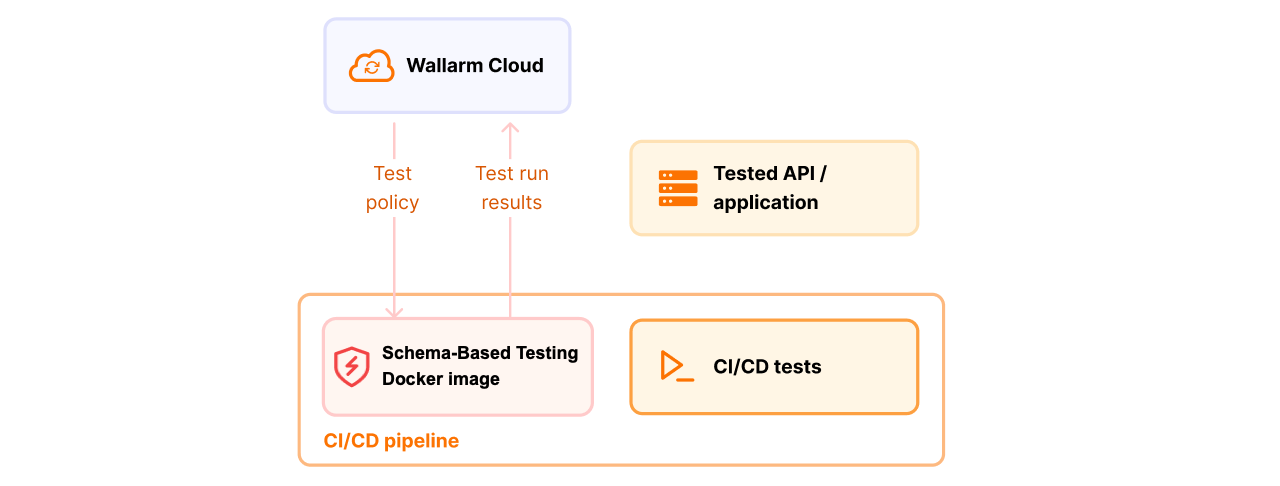
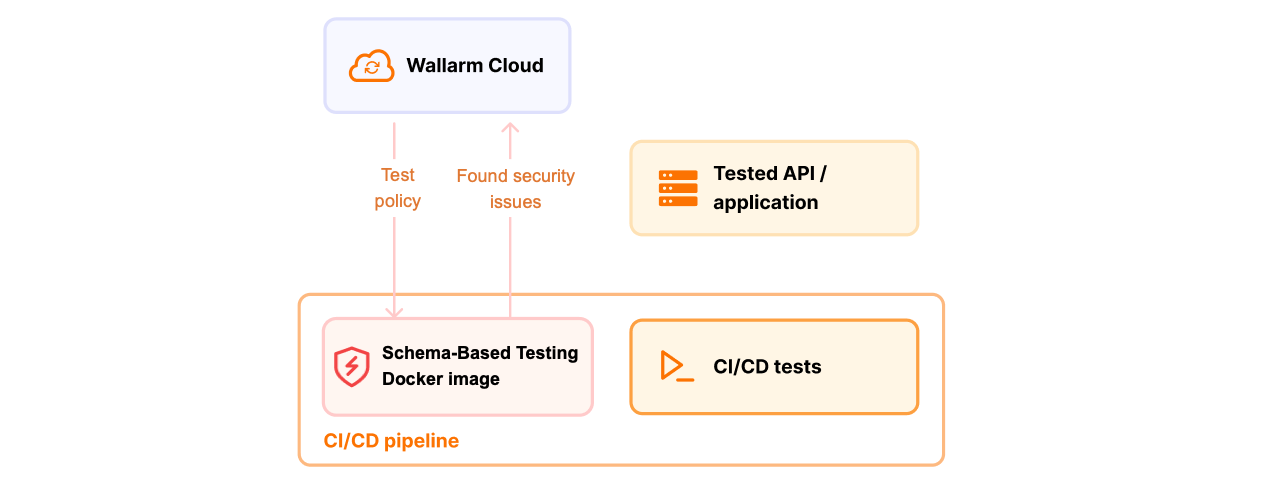
DOCS-3440 Exta info on Schema-Based Testing

diff --git a/docs/latest/vulnerability-detection/schema-based-testing/setup.md b/docs/latest/vulnerability-detection/schema-based-testing/setup.md
@@ -9,28 +9,36 @@ Schema-Based Testing is disabled by default. To enable:
 1. Contact sales@wallarm.com to activate the [**Security Testing** subscription plan](../../about-wallarm/subscription-plans.md#core-subscription-plans) for your account.
 1. Go to the **Security Testing** → **Schema-Based** → **Test policies** tab and create [at least one policy](#configure-test-policies).
 
-## Prerequisites - token
+## Prerequisites
+
+### Token
 
 Schema-Based Testing requires a [token](../../user-guides/settings/api-tokens.md) for authorizing data exchange between running Docker container and Wallarm Cloud. The token can be created in two ways:
 
 * **Automatically** - Schema-Based Testing will create it automatically and include into the `docker run` command on first attempt to copy Docker command from any policy. Other policies will re-use already existing token.
 * **Manually** - in Wallarm Console, go to **Settings** → **API Tokens**, click **New token**; on creation, set **Token usage** to `Schema-Based Testing agent`. All policies will use this token.
 
-## Configure test policies
+### Whitelist
+
+When you are planning to run Wallarm's Schema-Based Testing against domains protected by some security tools, it is recommended to add the client IP (IP from where the Docker command is being run) to the allowlist, otherwise majority of requests will be blocked and the vulnerabilities will not be found.
+
+This includes the case when Wallarm itself is used as the protection tool for these domains - see details on Wallarm's allowlist [here](../../user-guides/ip-lists/overview.md).
+
+## Test policy types
 
 You can configure test policy [based](overview.md#test-basis) on OpenAPI specification (OAS) or Postman collection. Note that one test policy is aimed at only one type of testing (either OAS or Postman-based).
 
 * OAS is more focused on input validation, injection, misconfiguration detection
 * Postman - on complex business logic and access control vulnerabilities
 
-### OAS-based
+## OAS-based test policies
 
 OpenAPI specification (OAS)-based test policy defines persistently:
 
 * Application's **OpenAPI specification**
 * Tests to run
 
-Besides persistent parameters that are the same for any test run, each test policy may optionally include parameters that can be re-defined during each next test run (**Runtime parameters**). Re-defining the runtime parameters can be useful for embedding of Docker into the CI/CD pipelines:
+Besides persistent parameters that are the same for any test run, each test policy may optionally include parameters that can be overridden during each next test run (**Runtime parameters**). Re-defining the runtime parameters can be useful for embedding of Docker into the CI/CD pipelines:
 
 * Application's **Target URL**
 
@@ -43,30 +51,30 @@ To configure test policy:
 1. Go to Wallarm Console → **Security Testing** → **Schema-Based** → **Test policies**.
 1. Click **Add policy**, attach OpenAPI specification file.
 1. Select [test types](overview.md#test-types) to run.
-1. Set **Target URL** (can be re-defined dynamically during each test run).
+1. Set **Target URL** (can be overridden dynamically during each test run).
 1. Optionally, add authentication **Runtime parameters**.
 
     ![Schema-Based Testing - creating test policy based on OpenAPI specification](../../images/vulnerability-detection/sbt-policy-create.png)
 
-### Postman collection-based
+## Postman collection-based test policies
 
 With Postman-based security testing you can automate security scans alongside your regular API tests, ensuring that each API run is thoroughly tested for vulnerabilities.
 
 !!! info "API functional tests as basis"
     Wallarm's schema-based testing leverages your functional tests to generate security tests. The more complete your functional tests are, the broader the security coverage Wallarm can provide. More APIs, users, and requests mean richer and more effective security testing.
 
-#### Pre-check of Postman collection
+### Pre-check of Postman collection
 
 Before using Postman data for schema-based security testing:
 
 1. Ensure that you collection and environment files contain:
 
-    * functional tests for API endpoints
-    * location of the target application
-    * all environment variables set
-    * necessary credentials to authenticate in the target application
+    * Functional tests for API endpoints
+    * Location of the target application
+    * All environment variables set
+    * Necessary credentials to authenticate in the target application
 
-1. (Recommended) Check whether the Postman collection is working at all (working). For example, this can be done by running the command:
+1. (Recommended) Check whether the Postman collection is working. For example, this can be done by running the command:
 
     ```
     newman run my_collection.json -e my_environment.json
@@ -77,7 +85,7 @@ Before using Postman data for schema-based security testing:
 !!! warning "Valid Postman collection"
     If the Postman collection itself cannot work, then the schema-based security testing will not work either.
 
-#### Configuring test policy in Wallarm
+### Configuring test policy in Wallarm
 
 In Wallarm, Postman collection-based test policy defines:
 
@@ -98,7 +106,7 @@ To configure test policy:
 
     ![Schema-Based Testing - creating test policy based on Postman collection](../../images/vulnerability-detection/sbt-policy-create-postman.png)
 
-#### Business logic security testing
+### Business logic security testing
 
 For business logic testing ([OWASP API1:2023 Broken Object Level Authorization (BOLA)](https://github.com/OWASP/API-Security/blob/master/editions/2023/en/0xa1-broken-object-level-authorization.md) and [OWASP API5:2023 Broken Function Level Authorization (BFLA)](https://github.com/OWASP/API-Security/blob/master/editions/2023/en/0xa5-broken-function-level-authorization.md)) Wallarm's Schema-Based Security Testing requires API traffic from at least two different authenticated users, preferably with varying privileges (e.g., admin and regular users). This diversity enables more effective business logic security tests and provides a more thorough assessment.
 
@@ -107,7 +115,7 @@ For business logic testing ([OWASP API1:2023 Broken Object Level Authorization (
 | [OWASP API1:2023 Broken Object Level Authorization (BOLA)](https://github.com/OWASP/API-Security/blob/master/editions/2023/en/0xa1-broken-object-level-authorization.md) | Testing for this vulnerability requires multiple authenticated users to demonstrate whether proper object-level authorization checks are in place. |
 | [OWASP API5:2023 Broken Function Level Authorization (BFLA)](https://github.com/OWASP/API-Security/blob/master/editions/2023/en/0xa5-broken-function-level-authorization.md) | Testing for this vulnerability requires requests from users with different privilege levels to evaluate whether function-level authorization is enforced consistently. |
 
-##### Example 1: Using Postman collections with requests from two users
+#### Example 1: Using Postman collections with requests from two users
 
 Do the following:
 
@@ -118,7 +126,7 @@ Do the following:
 1. Verify that all requests are executed correctly. 
 1. Create a test policy with the created Postman collection.
 
-##### Example 2: Using Postman environments for multiple users
+#### Example 2: Using Postman environments for multiple users
 
 Do the following:
 
@@ -131,13 +139,15 @@ Do the following:
     
     In this setup, the collection is executed twice - once with `env1.json` (`User A`) and once with `env2.json` (`User B`) - so each request runs under both user contexts.
 
-### Editing existing policy
+## Editing existing policy
 
 You can edit previously created policies: while clicking policy itself opens its Docker command info, you can click the edit button to access the edit dialog:
 
 ![Schema-Based Testing - editing test policy](../../images/vulnerability-detection/sbt-policy-edit.png)
 
 ## Docker run
+
+### Running command
 
 As test policy is [created](#configure-test-policies), it provides you with the Docker run command which allows you start tests for your application:
 
@@ -149,7 +159,7 @@ As test policy is [created](#configure-test-policies), it provides you with the 
 1. If necessary, redefine Docker log level and format.
 1. Copy command and run it or embed into your CI/CD pipeline. This will run security tests selected in the policy for your application.
 
-    Remember that, for OAS-based run, you can re-define the policy's **Runtime parameters** on each run by adding the corresponding `-e` parameters to the Docker `run` command, for example:
+    Remember that, for OAS-based run, you can override the policy's **Runtime parameters** on each run by adding the corresponding `-e` parameters to the Docker `run` command, for example:
 
     ```
     -e TARGET_URL="http://dvapi.st.wallarm.tools" 
@@ -164,11 +174,67 @@ As test policy is [created](#configure-test-policies), it provides you with the 
     
 1. View run statistics and [test run results](explore.md) on the **Test runs** tab.
 
+### Available flags
+
+You can use flags to modify behavior of Wallarm's Schema-Based Testing running as Docker container. To see the full list of available flags, use:
+
+```
+<YOUR DOCKER RUN COMMAND FOR SCHEMA-BASED TESTING> --help
+```
+
+The outup will be something like:
+
+```
+Wallarm Schema-Based Security Testing - API security testing tool
+
+Usage:
+  /app/main [flags]
+
+Flags:
+GENERAL:
+   -v, -version           Show version information
+   -fail-severity string  Set fail severity level (critical, high, medium, low, info) (default "high")
+
+PREFLIGHT-CHECKS:
+   -skip-target-url-connectivity-check  Skip checking target URL connectivity
+
+REPORTS:
+   -r, -report            Enable report generation
+   -report-format string  Report format (json) (default "json")
+   -report-output string  Report output file path (default "report/results.json")
+   -report-pretty         Pretty-print JSON output (default true)
+   -no-summary            Disable summary output to stdout
+
+LOGGING:
+   -l, -log-level string   Set log level (debug, info, warn, error) (default "info")
+   -f, -log-format string  Set log format (json, colored, text) (default "colored")
+```
+
+See the explanation for the `-fail-severity` flag in the next section.
+
+### Test run success criteria
+
+If your include Wallarm's Schema-Based test runs into your CI/CD pipeline, it is important to define the criteria of test run success. You can do that with the `-fail-severity` flag with possible values:
+
+* critical
+* high (default)
+* medium
+* low
+* info
+
+For example:
+
+```
+docker run -e WALLARM_API_HOST="us1.api.wallarm.com" -e WALLARM_API_TOKEN="<YOUR_SCHEMA-BASED_TESTING_AGENT-TOKEN>" -e WALLARM_CLIENT_ID="<YOUR_COMPANY_ID>" -e WALLARM_TESTING_POLICY_ID="<YOUR_TEST_POLICY_ID>" --network="host" wallarm/security-testing:0.3.2 -fail-severity medium
+```
+
+...will lead to the following: if testing finds at least 1 medium (or high or critical) security issue, the test run will exit with code 1 ("test failed").
+
 ## Deleting policies
 
 You can delete a test policy. If you do so:
 
 * Information on previous test runs will remain untouched
 * You will not be able to run Docker's command based on the deleted policy
-* If policy's Docker containers are running, they will continue to do so
+* If policy's Docker containers are running, they will continue to do so and the testing will continue
 * When policy's Docker containers stop, you will not be able to re-run them

diff --git a/docs/latest/vulnerability-detection/schema-based-testing/explore.md b/docs/latest/vulnerability-detection/schema-based-testing/explore.md
@@ -17,6 +17,10 @@ Here you can review security issues detected during the run, health checks, and 
 
 ## Test run details
 
+You can obtain test run details from Wallarm Cloud and from you Docker container output.
+
+### In Wallarm UI
+
 Click test run to expand and see its detailed technical information:
 
 ![Schema-based security testing - test run details](../../images/vulnerability-detection/apitp-test-run-details.png)
@@ -27,9 +31,35 @@ You can check:
 * Errors and warnings (if any) occurred while running.
 * Docker container output (with the **Copy to clipboard** capability).
 
-## Test run JSON report
+Also you can:
 
-From the test run menu, select **Download JSON report** to get report for your test run in JSON format.
+* Download JSON report for your test run.
+* Copy link to the test run details to share with colleagues.
+
+### Docker container output
+
+You can find test run results in your Docker container output directly, for example:
+
+```
+Sep  2 18:26:40.222 INF STARTING with arguments test_profile_id=60 client_id=5 wallarm_api_host=https://us1.api.wallarm.com wallarm_api_token=*****FWmup send_logs=true fail_severity=high
+Sep  2 18:26:40.228 INF Running pre-flight checks
+Sep  2 18:26:40.698 INF Successfully authenticated with Wallarm API
+Sep  2 18:26:40.698 INF All pre-flight checks passed
+Sep  2 18:26:40.698 INF Requesting test policy test_profile_id=60
+Sep  2 18:26:41.926 INF Test policy received
+Sep  2 18:26:42.383 INF Running Postman workflow
+Sep  2 18:26:42.383 INF Getting postman configuration files test_profile_id=60
+Sep  2 18:26:43.168 INF Running target URL connectivity check with Newman
+Sep  2 18:27:40.723 INF Target URL connectivity check with Newman passed total_requests=47 failed_requests=9 failure_ratio=0.19148936170212766 threshold=0.75
+Sep  2 18:27:40.727 INF Starting Postman security testing workflow
+Sep  2 18:33:51.069 INF Postman security testing completed successfully
+Sep  2 18:33:51.069 INF Workflow completed successfully
+Sep  2 18:33:57.283 INF Security issues summary total_issues=17 severity_counts.high=16 severity_counts.medium=1
+Sep  2 18:33:57.410 INF Container logs exportedto the cloud
+Sep  2 18:33:57.411 ERR Exiting with code 1 due to security issues meeting fail-severity threshold fail_severity=high count=16
+```
+
+In the example, pay your attention to exit with code 1 (failed tests) due to set [test run success criteria](setup.md#test-run-success-criteria).
 
 ## Downloading initial files
 
